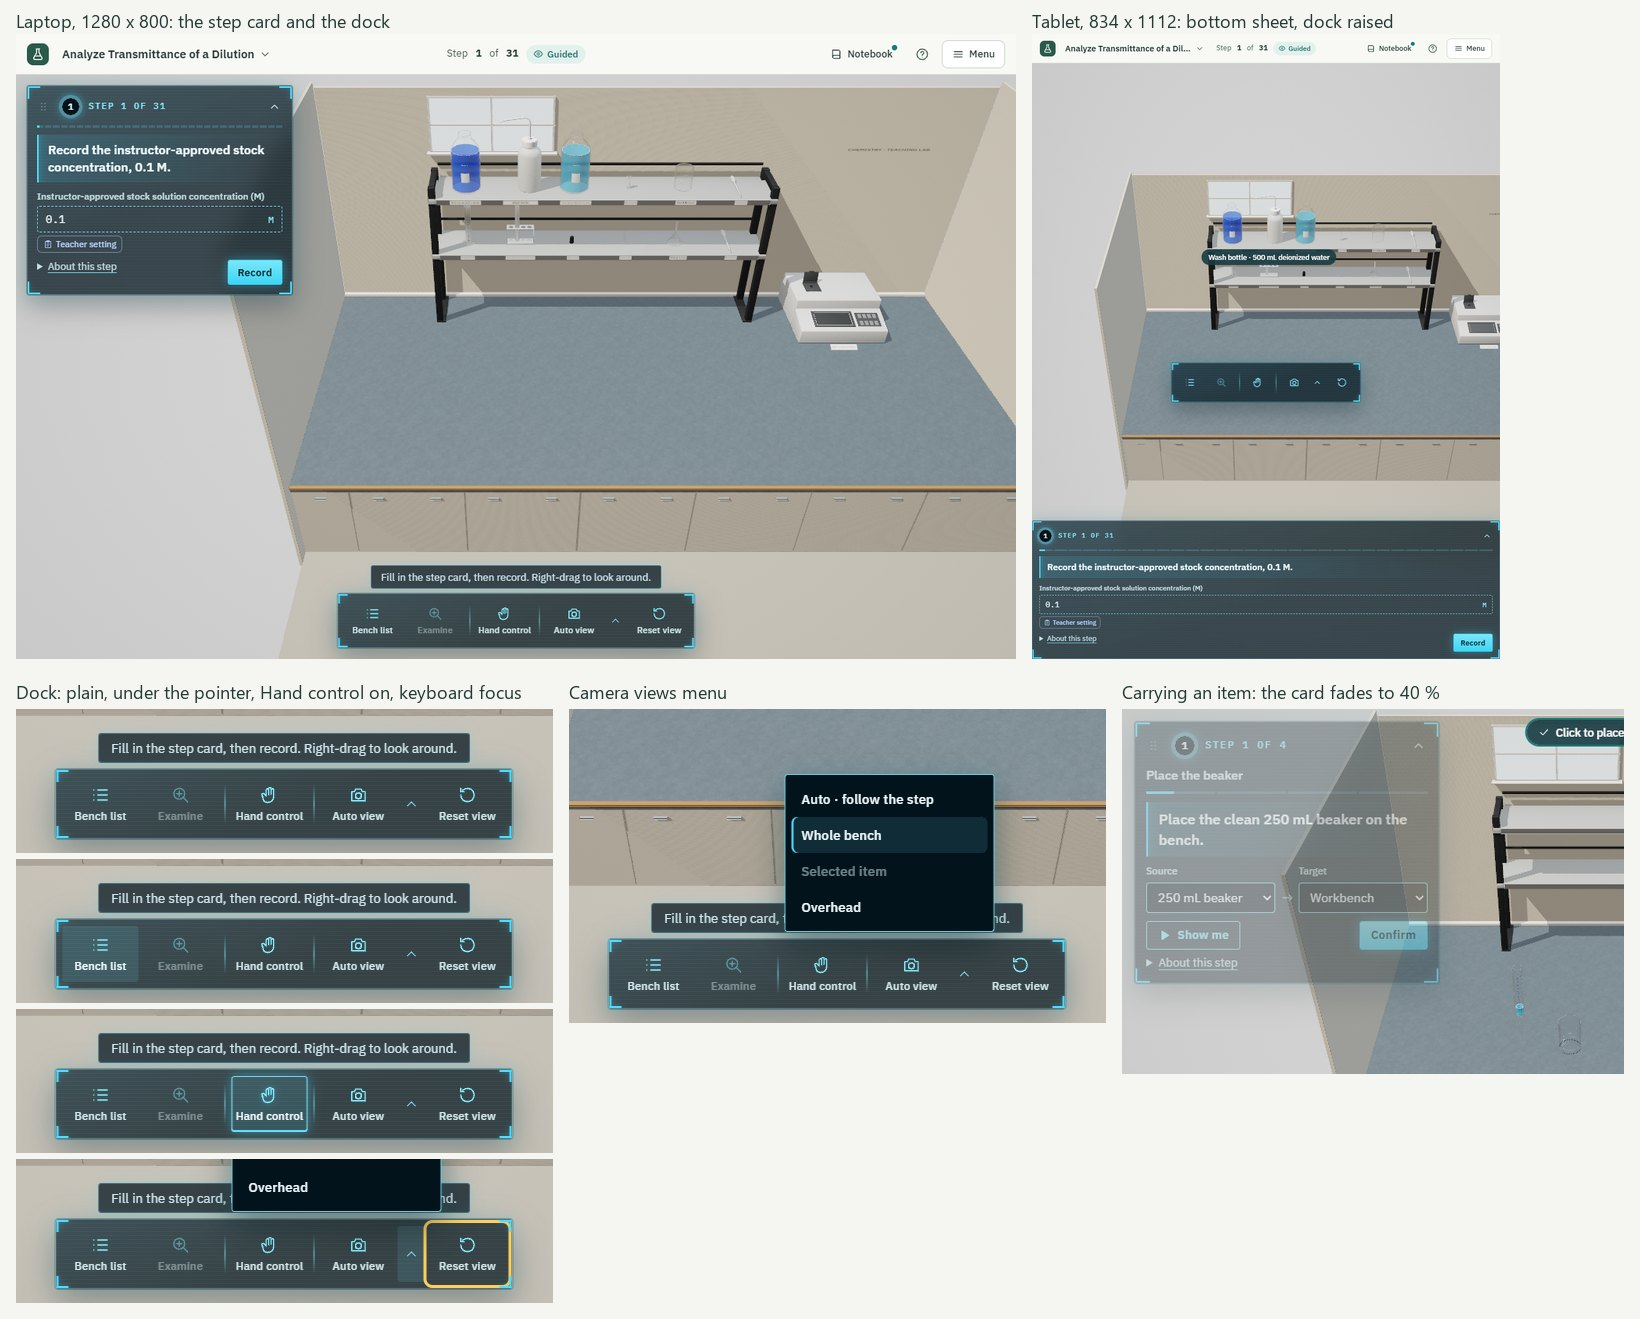
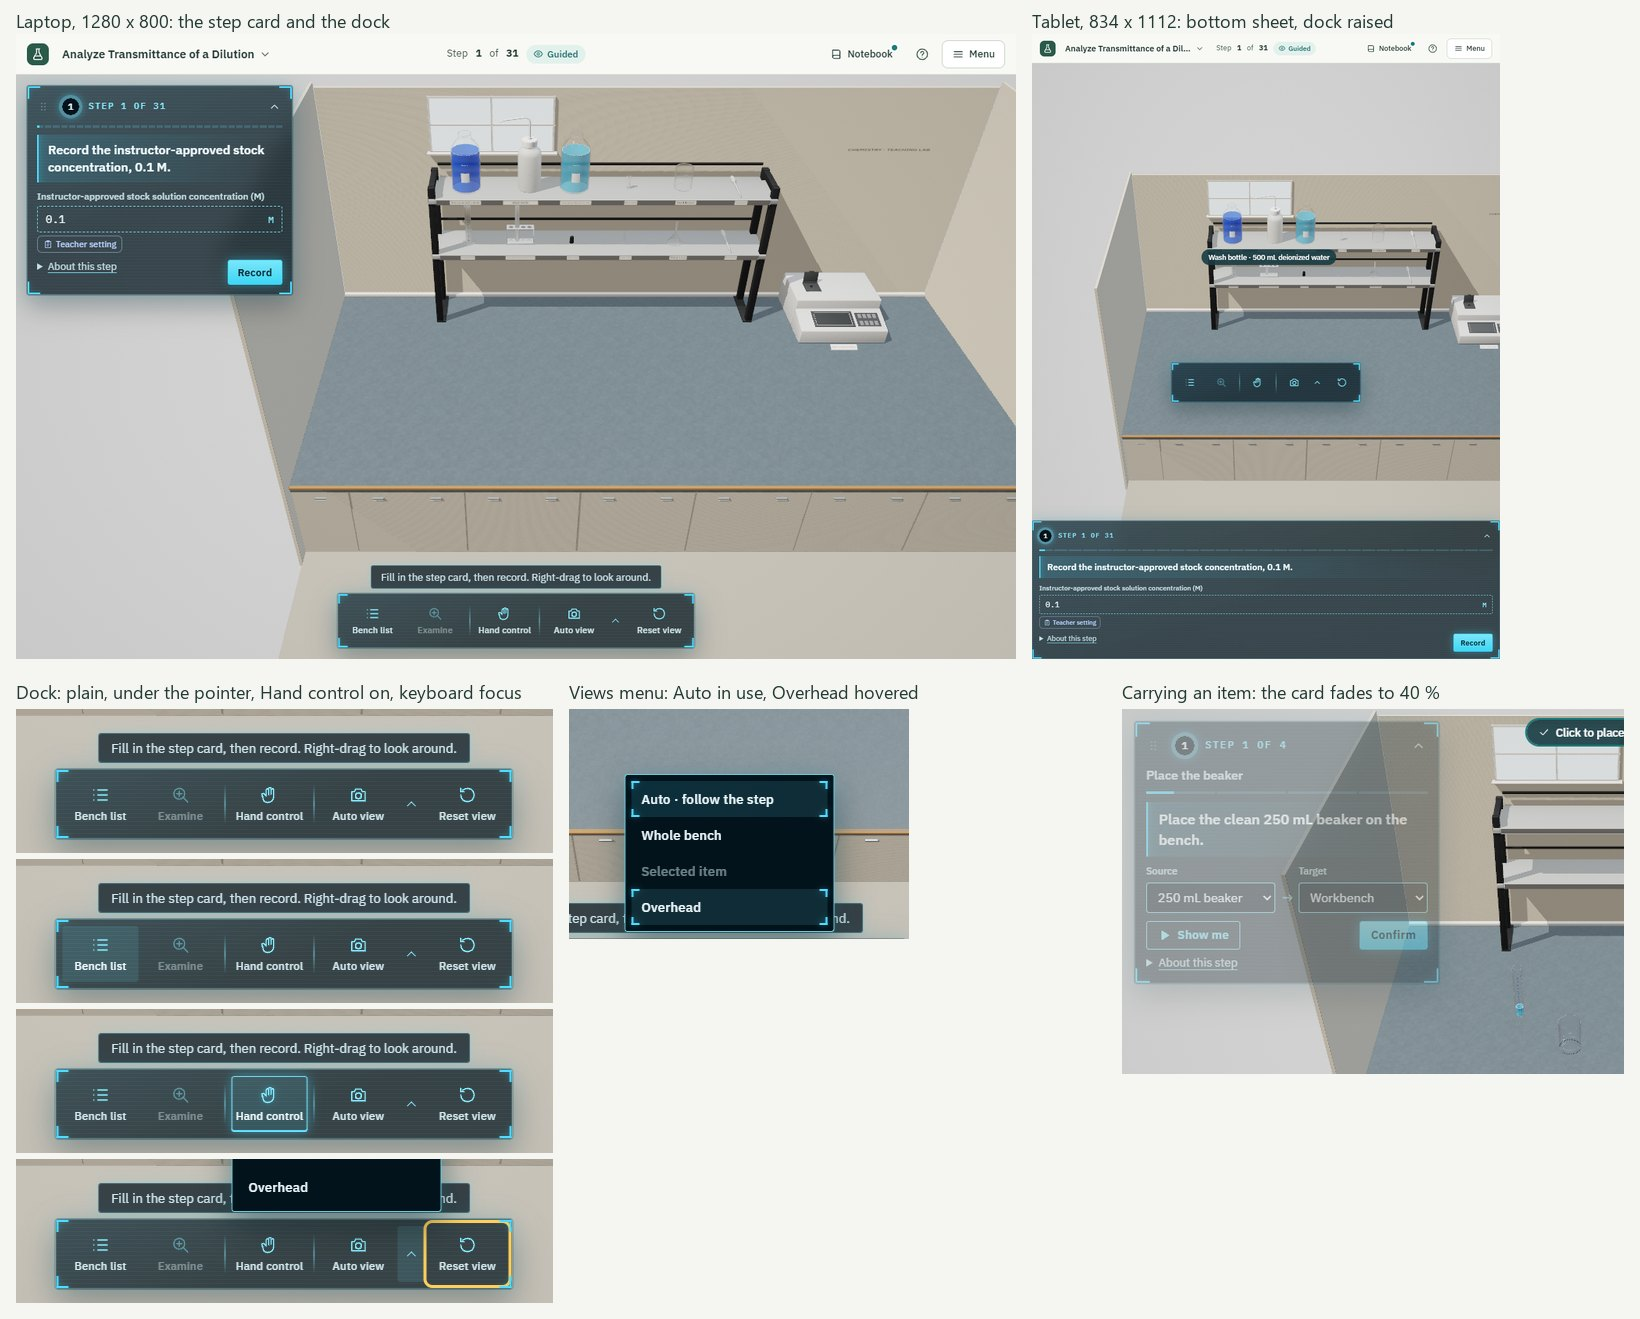
Record the camera views menu brackets
The HUD row in DECISIONS.md gains the menu brackets (you, 2026-10-12), the
contrast table is regenerated (71 of 71) and the contact sheet shows the
menu with Auto in use and Overhead under the pointer.

Changed region(s): [[0.3421, 0.4973, 0.6841, 0.7771], [0.3421, 0.4973, 0.4354, 0.5284]]

diff --git a/planning/2026-09-23_lab-studio-3d/DECISIONS.md b/planning/2026-09-23_lab-studio-3d/DECISIONS.md
@@ -65,7 +65,7 @@ Governing documents: `IMPLEMENTATION_PLAN.md` (revision 2.1) and `UI_UX_HANDOFF.
 | — | Pack 3a follow-ups (you, 2026-10-11: "1. put a tile under the strip. 2. Is 3D-only bench layout bad thing to do? 3. Suggest solution on the tray issue. 4. What is the question about the blue dye? 5. Also, allow user to move the bench with left mouse button vertically at a wider range than it is now."; in line: "Yes, all 3D (Recommended)", "Mixture colour, 3D only (Recommended)", "Slide the bench (Recommended)", and for the tray: "Evaluate replacing the tray with making a shelf over the bench with required equipment. Getting rid of the tray in favor of more realistic lab environment.") | **Built 2026-10-11, except the tray, which is a proposal** (`evidence/PACK3A_EVIDENCE.md`, "Follow-ups"). (1) **The tile:** `white-tile`, visual-only bench scenery (D9): a white glazed tile, 150 × 150 × 6 mm. A chromatography strip lying on the bench lies on it (the strip's `restsOn`), and so does the ruler laid along the strip. The tile stays where the strip lay while the strip hangs in its chamber. It is never an instance and cannot be selected; Examine says "Lies on a white tile" with a Scenery chip. Drops and free moves keep clear of it. Its viewer colour is a cool white set low enough that the paper reads on it. (2) **The bench layout, all 3D:** each item keeps one slot for the whole run (`stableBench.ts`), and a student's own move wins; 2D is unchanged. (4) **The dye:** the teacher's mixture is drawn dark brown-violet, through its own palette state `food-dye-mixture`, authored only by the 3D chromatography content; 2D keeps `blue-dye-solution`. (5) **The slide:** a left-drag on empty bench slides the bench toward or away from you, over a wider range; Home resets the view. (3) **The tray:** evaluated in `proposals/SHELF_INSTEAD_OF_TRAY.md`; nothing built. It recommends a reagent shelf over the back of the bench, a side station for the large items and a text Shelf list for keyboard and screen readers, and leaves four decisions open. **Found at the G1 for these and fixed, 3D only:** (a) the 2-propanol strip was drawn in the water chamber while its own chamber was closed and opened (lab steps 55 and 57). On every action the runtime merges in a relation derived from the strip's snap zone that names the first chamber (`withResolvedAttachments`, `deriveLegacyAttachments`), even when the strip already holds its own. The 3D scene now keeps each child's first relation, its own (`adapters/heldRelations.ts`). The runtime is unchanged; whether 2D draws the same is not checked, and a shared fix would need your decision. (b) The guided beacon and the step's camera framing took the first item of a kind, so every 2-propanol trial step pointed at the water strip or chamber. They now follow the instance the step names (`stepRules.ts`, `Endpoint.instanceId`). | `evidence/PACK3A_EVIDENCE.md`, "Follow-ups" |
 | — | The shelf in place of the tray (you, 2026-10-11: "The full tray proposal is valid. Craft the handoff prompt to work on the tray in a separate thread.") | **Approved in full: `proposals/SHELF_INSTEAD_OF_TRAY.md`, option B, with every recommended answer.** (1) Option B: a two-tier reagent shelf on uprights along the back of the bench (D9 scenery, replacing the room's decorative shelf), each item on its own stable spot, taken with the bench's own carry; the floating tray panel goes. (2) The large stations (ring stand, analytical balance, Bunsen burner) stand at a side station at the bench's right end; in the runtime they are still on `shelf`. The prompt's fidelity review found a fourth, the spectrophotometer in Pack 1's `transmittance-dilution`, which follows the same rule, and that Heat and Reweigh starts with four large items at once (the proposal's "Notes after approval"). (3) A text Shelf list stays for keyboard and screen readers, inside the Bench list, with Enter to place and the "needed now" wording. (4) The hand reaches the shelf through a raised-hand tier mapping. 3D only: the runtime's `shelf` is unchanged and 2D is untouched. Not built here: the build is a separate thread, phases 1 (draw) and 2 (take), then a stop for your look, then 3 (hand) and 4 (review). | `TRAY_SHELF_BUILD_PROMPT.md` |
 | — | The shelf build's interpretations (you, 2026-10-11, in the build thread, each the recommended answer) | (1) **Where the shelf stands:** behind the working area. The worktop is deepened about 130 mm at the back (its front edge is unchanged) and the back wall moves back with it, so the shelf stands wholly behind the 1400 × 700 mm working area and no bench spot is lost. (2) **The side station:** the bench continues to the right. The worktop and its cabinets run on about 600 mm past the working area's right end, and the wall widens with them; the large items stand there on fixed spots, in start order. (3) **The start panel and the dock:** nothing opens at the start; the dock keeps the Bench list (which holds the Shelf list) and loses its Tray button. (4) **The canvas's arrow keys** stay on the bench; the Shelf list is the keyboard path to the shelf. | Building (`TRAY_SHELF_BUILD_PROMPT.md`) |
-| — | The step card and dock as a sci-fi HUD (you, 2026-10-12: "Make this step card less vision obscuring and also try to apply Jarvis-like (from Iron Man) theme to it. Make the kids to feel in a sci fi lab."; then "Apply the same theme to the bottom menu card.") | **Built 2026-10-12, 3D only, waiting for your look.** It departs from the handoff's light design (Q5) for three elements only: the step card, the dock with its camera views menu, and the hint over the dock. Their content, order and controls are unchanged. **Less in the way:** the card is dark glass about three quarters opaque and blurred, where it was 95 % opaque. It is 340 px wide instead of 372. Its title is smaller, and it is hidden when the instruction begins with it; it stays the heading for screen readers. The progress bar is a 3 px line. While an item is carried the card fades to 40 % until the pointer or focus comes to it. **The look:** cyan hairlines and corner brackets, a monospace step eyebrow, and the step number in a ring that fills as the steps are done. The actions glow cyan, and a scan line sweeps the card on each new step (none with reduced motion). The dock and the hint are on the same glass. An On dock button is lit from inside, with a cyan frame and underline, and every dock label now fits on one line. The colours are new `--hud-*` tokens. The glass cannot be lighter, because its text must still pass over the window's white. | `src/studio3d/styles/stepHud.css`; `evidence/STEP_HUD_TOKEN_CONTRAST.md` (69 of 69 pass); `evidence/renders/HUD_step_card_and_dock.jpg` |
+| — | The step card and dock as a sci-fi HUD (you, 2026-10-12: "Make this step card less vision obscuring and also try to apply Jarvis-like (from Iron Man) theme to it. Make the kids to feel in a sci fi lab."; then "Apply the same theme to the bottom menu card.") | **Built 2026-10-12, 3D only, waiting for your look.** It departs from the handoff's light design (Q5) for three elements only: the step card, the dock with its camera views menu, and the hint over the dock. Their content, order and controls are unchanged. **Less in the way:** the card is dark glass about three quarters opaque and blurred, where it was 95 % opaque. It is 340 px wide instead of 372. Its title is smaller, and it is hidden when the instruction begins with it; it stays the heading for screen readers. The progress bar is a 3 px line. While an item is carried the card fades to 40 % until the pointer or focus comes to it. **The look:** cyan hairlines and corner brackets, a monospace step eyebrow, and the step number in a ring that fills as the steps are done. The actions glow cyan, and a scan line sweeps the card on each new step (none with reduced motion). The dock and the hint are on the same glass. An On dock button is lit from inside, with a cyan frame and underline, and every dock label now fits on one line. In the camera views menu (you, 2026-10-12: "For the active/selected submenu items add the corner hightlights as they are seen around the step and bottom menu cards."), the item under the pointer or keyboard focus, and Auto while auto view is on, carry the same corner brackets. The colours are new `--hud-*` tokens. The glass cannot be lighter, because its text must still pass over the window's white. | `src/studio3d/styles/stepHud.css`; `evidence/STEP_HUD_TOKEN_CONTRAST.md` (71 of 71 pass); `evidence/renders/HUD_step_card_and_dock.jpg` |
 
 ## Open decisions, with the plan's recommendation used provisionally
 

diff --git a/planning/2026-09-23_lab-studio-3d/evidence/STEP_HUD_TOKEN_CONTRAST.md b/planning/2026-09-23_lab-studio-3d/evidence/STEP_HUD_TOKEN_CONTRAST.md
@@ -76,5 +76,7 @@ white as well; the lowest ratio counts.
 | HUD On button's underline on glass | ui | 3.88–7.84:1 | 3:1 |  | pass |
 | HUD ink in the camera views menu | text | 13.85–17.95:1 | 4.5:1 |  | pass |
 | HUD focus ring on the camera views menu | focus | 12.88:1 | 3:1 |  | pass |
+| HUD ink on the view in use (Auto on) | text | 13.47–13.47:1 | 4.5:1 |  | pass |
+| HUD menu item brackets | ui | 8.78–11.69:1 | 3:1 |  | pass |
 
-69 of 69 pairs pass.
+71 of 71 pairs pass.
